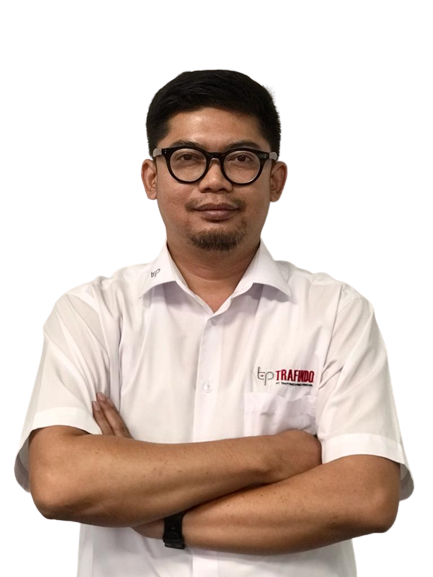
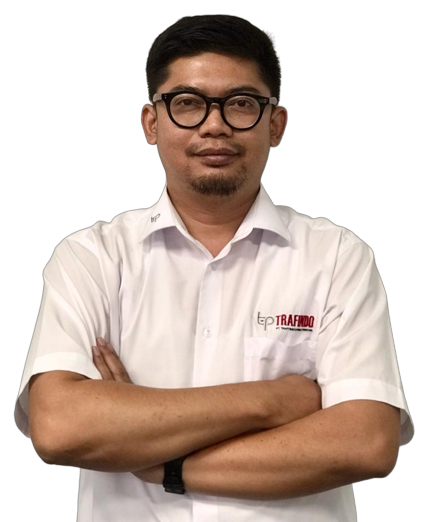
update foto dan header dikit

Changed region(s): [[0.03, 0.0, 0.9607, 0.9808]]

diff --git a/resources/views/sistemPenawaran/template/header.blade.php b/resources/views/sistemPenawaran/template/header.blade.php
@@ -1,12 +1,12 @@
 <meta charset="utf-8" />
-    <title>Project Management</title>
+    <title>Administrasi Penawaran</title>
     <meta name="viewport" content="width=device-width, initial-scale=1.0">
     <meta content="A fully featured admin theme which can be used to build CRM, CMS, etc." name="description" />
     <meta content="Coderthemes" name="author" />
     <meta name="csrf-token" content="{{ csrf_token() }}">
     <meta http-equiv="X-UA-Compatible" content="IE=edge" />
     <!-- App favicon -->
-    <link rel="shortcut icon" href="{{ asset('images/logo_trafindo_only.png') }}">
+    <link rel="shortcut icon" href="{{ asset('images/trafindo_care_logo_only.png') }}">
 
 
     <link rel="stylesheet" href="https://cdn.jsdelivr.net/npm/flatpickr/dist/flatpickr.min.css">
